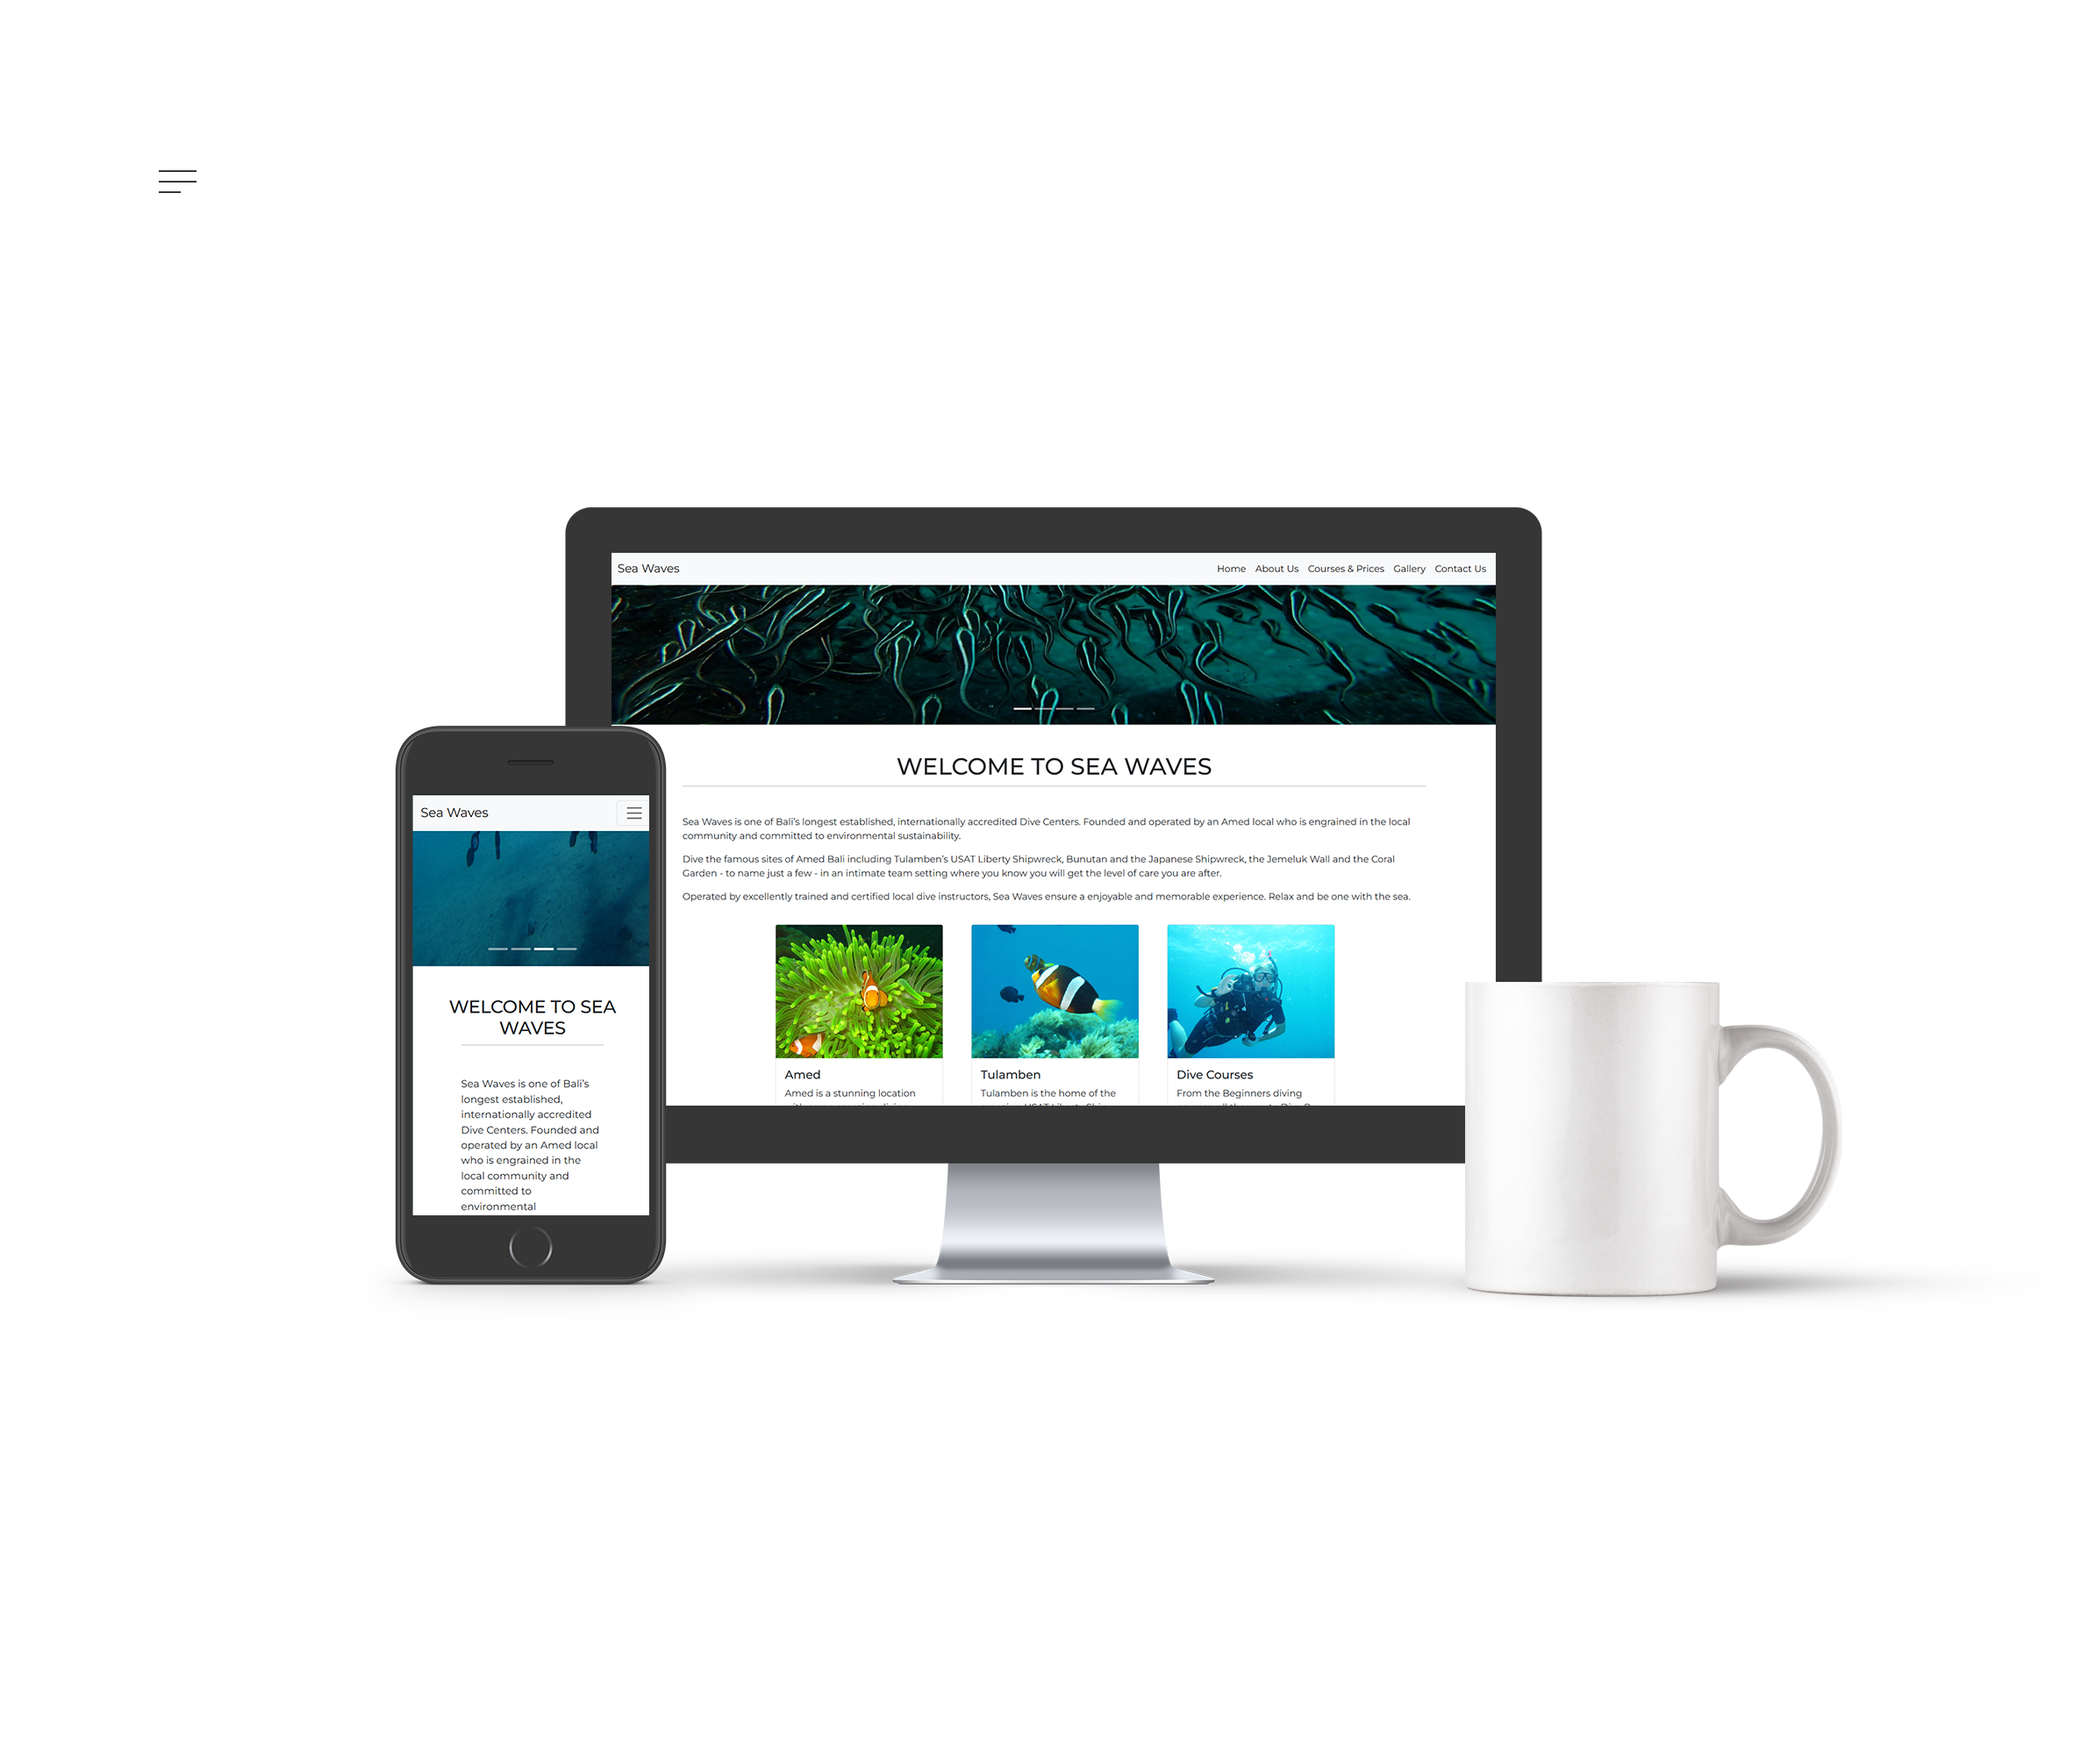
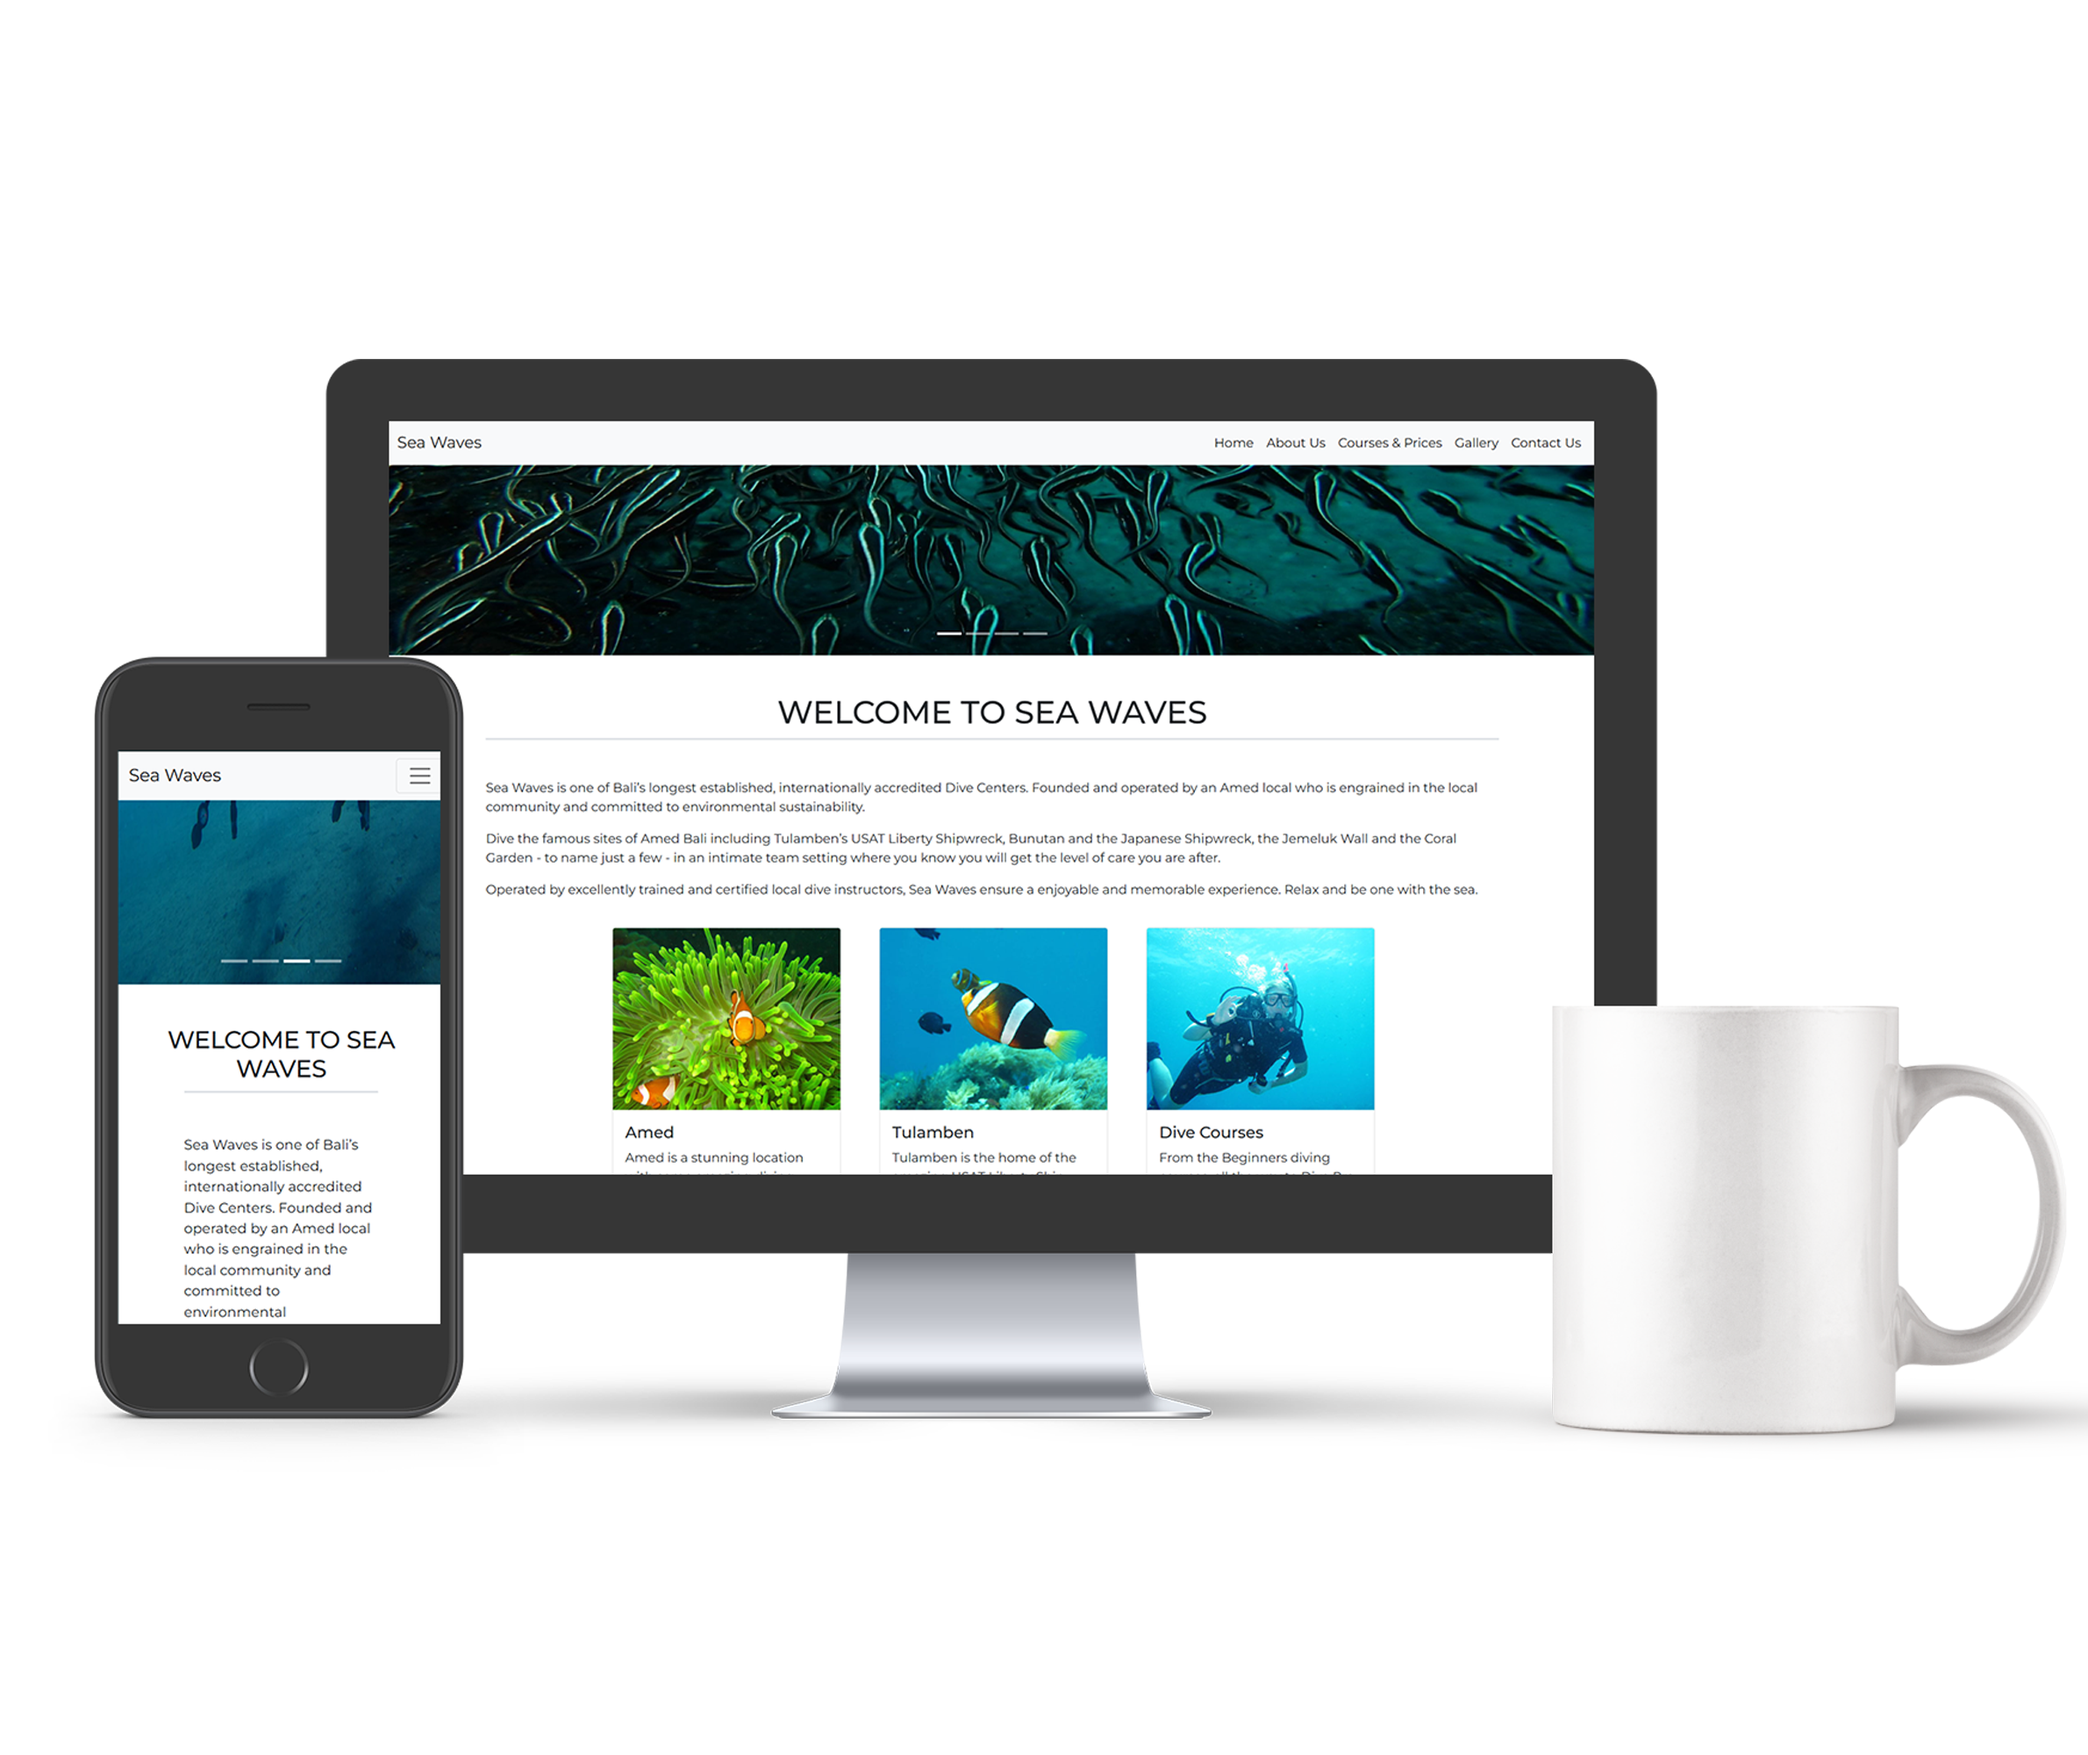
perbaikan tata letak gambar proyek pada view hp

Changed region(s): [[0.0311, 0.186, 1.0, 0.837]]

diff --git a/index.html b/index.html
@@ -164,7 +164,7 @@
         </div>
       </div>
       <div class="row align-items-center">
-        <div class="col-lg-6 text-center">
+        <div class="col-lg-6 text-center order-2 order-lg-1">
           <h4>
             WEB PROJECT
           </h4>
@@ -177,7 +177,7 @@
             View Reflection
           </button>
         </div>
-        <div class="col-lg-6 text-center">
+        <div class="col-lg-6 text-center order-1 order-lg-2">
           <img src="website.png" alt="Project 1" class="project-img" />
         </div>
       </div>
@@ -200,7 +200,7 @@
         </div>
       </div>
       <div class="row align-items-center mb-5">
-        <div class="col-lg-6 text-center">
+        <div class="col-lg-6 text-center order-2 order-lg-1">
           <h4>
             DESIGN GRAPHIC
           </h4>
@@ -213,7 +213,7 @@
             View Reflection
           </button>
         </div>
-        <div class="col-lg-6 text-center">
+        <div class="col-lg-6 text-center order-1 order-lg-2">
           <img src="desing_graphic.jpg" alt="Project 1" class="project-img" />
         </div>
       </div>
@@ -261,7 +261,7 @@
           <a href="Laporan Praktek_230040108_I WAYAN AGUS RAJA GUNA WIJAYA.pdf" download
             class="btn btn-outline-dark btn-sm mt-4 mb-5" style="font-family: 'IBM Plex Mono';">View Full
             Documentation</a>
-          <button class="btn btn-reflection btn-sm mx-3 mt-4 mb-5" data-bs-toggle="modal"
+          <button class="btn btn-reflection btn-sm mx-3 mt-4 mb-5 btnreflectionlast" data-bs-toggle="modal"
             data-bs-target="#reflectionModal5" style="font-family: 'IBM Plex Mono';">
             View Reflection
           </button>
